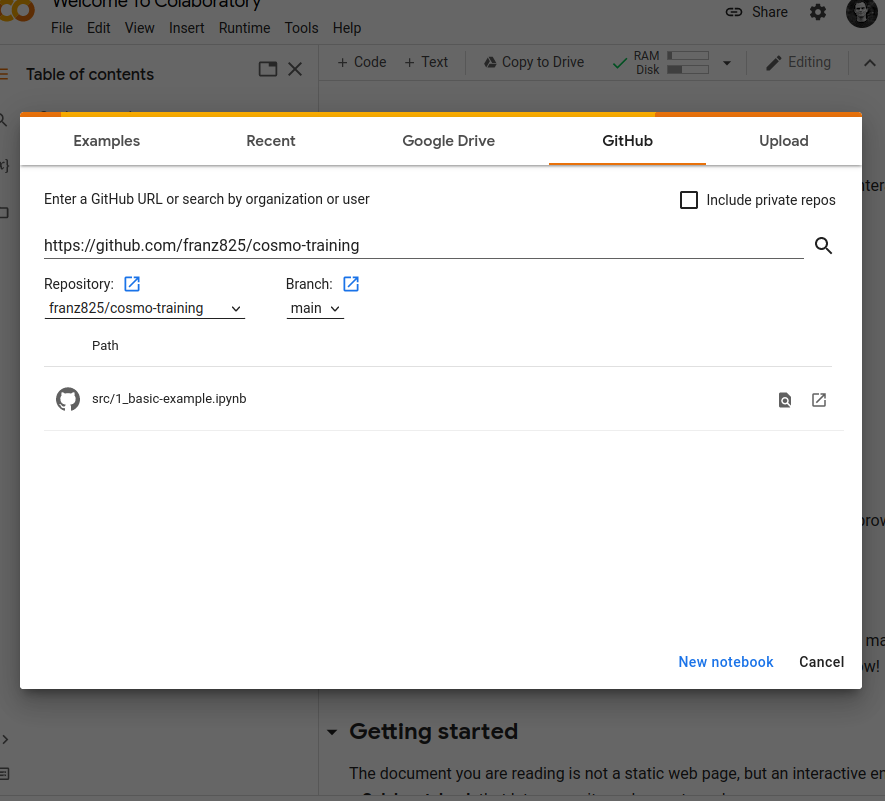
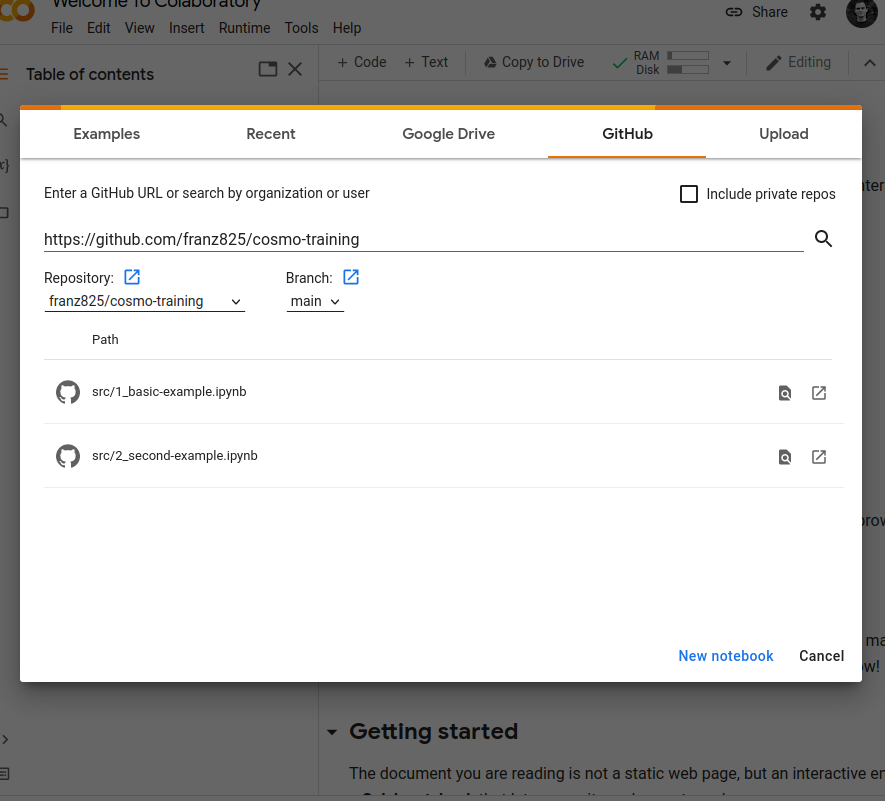
add readme information

diff --git a/README.md b/README.md
@@ -6,4 +6,21 @@ This repository contains the didactic material for the exercise about cosmogenic
 
 ## Workflow
 
-In order to achieve the exercises, you will use the "Google Colaboratory" interface, available [here](https://colab.research.google.com). This web interface enables you to interpret Jupyter Notebooks (text files containing a mix of text and code cells), written in the Python langage.
+In order to achieve the exercises, you will use the "Google Colaboratory" (or Google Colab) interface, available [here](https://colab.research.google.com). This web interface enables you to interpret Jupyter Notebooks (text files containing a mix of text and code cells), written in the Python langage. Jupyter notebooks (`.ipynb` file extension) for the training session are located in the `src` directory of this repository. Each notebook can be directly opened in Google Colab, as follows:
+
+1. Open the Google Colab interface in your browser: [https://colab.research.google.com/](https://colab.research.google.com/).
+2. In the Menu box, click on the `Github` tab.
+3. Copy the URL of this repository: [https://github.com/franz825/cosmo-training](https://github.com/franz825/cosmo-training).
+4. And paste it in the "Enter a Github URL" field. Hit "Enter".
+5. Notebooks available in the repository appear below in the box. Simply click on the appropriate `.ipynb` file to open it.
+
+![Connect to the repository](guidelines/imgs/colab-open-notebook.png)
+
+The notebook is composed of two types of cells:
+
+- Text cells, which simply contain text, formattted in [Markdown](https://www.markdownguide.org/).
+- Code cells, which contain Python code, that you can execute and use to compute results.
+
+To run a code cell, click on the "Play" button or hit "Ctrl + Enter".
+
+![Run a code cell](guidelines/imgs/colab-first-notebook.png)
